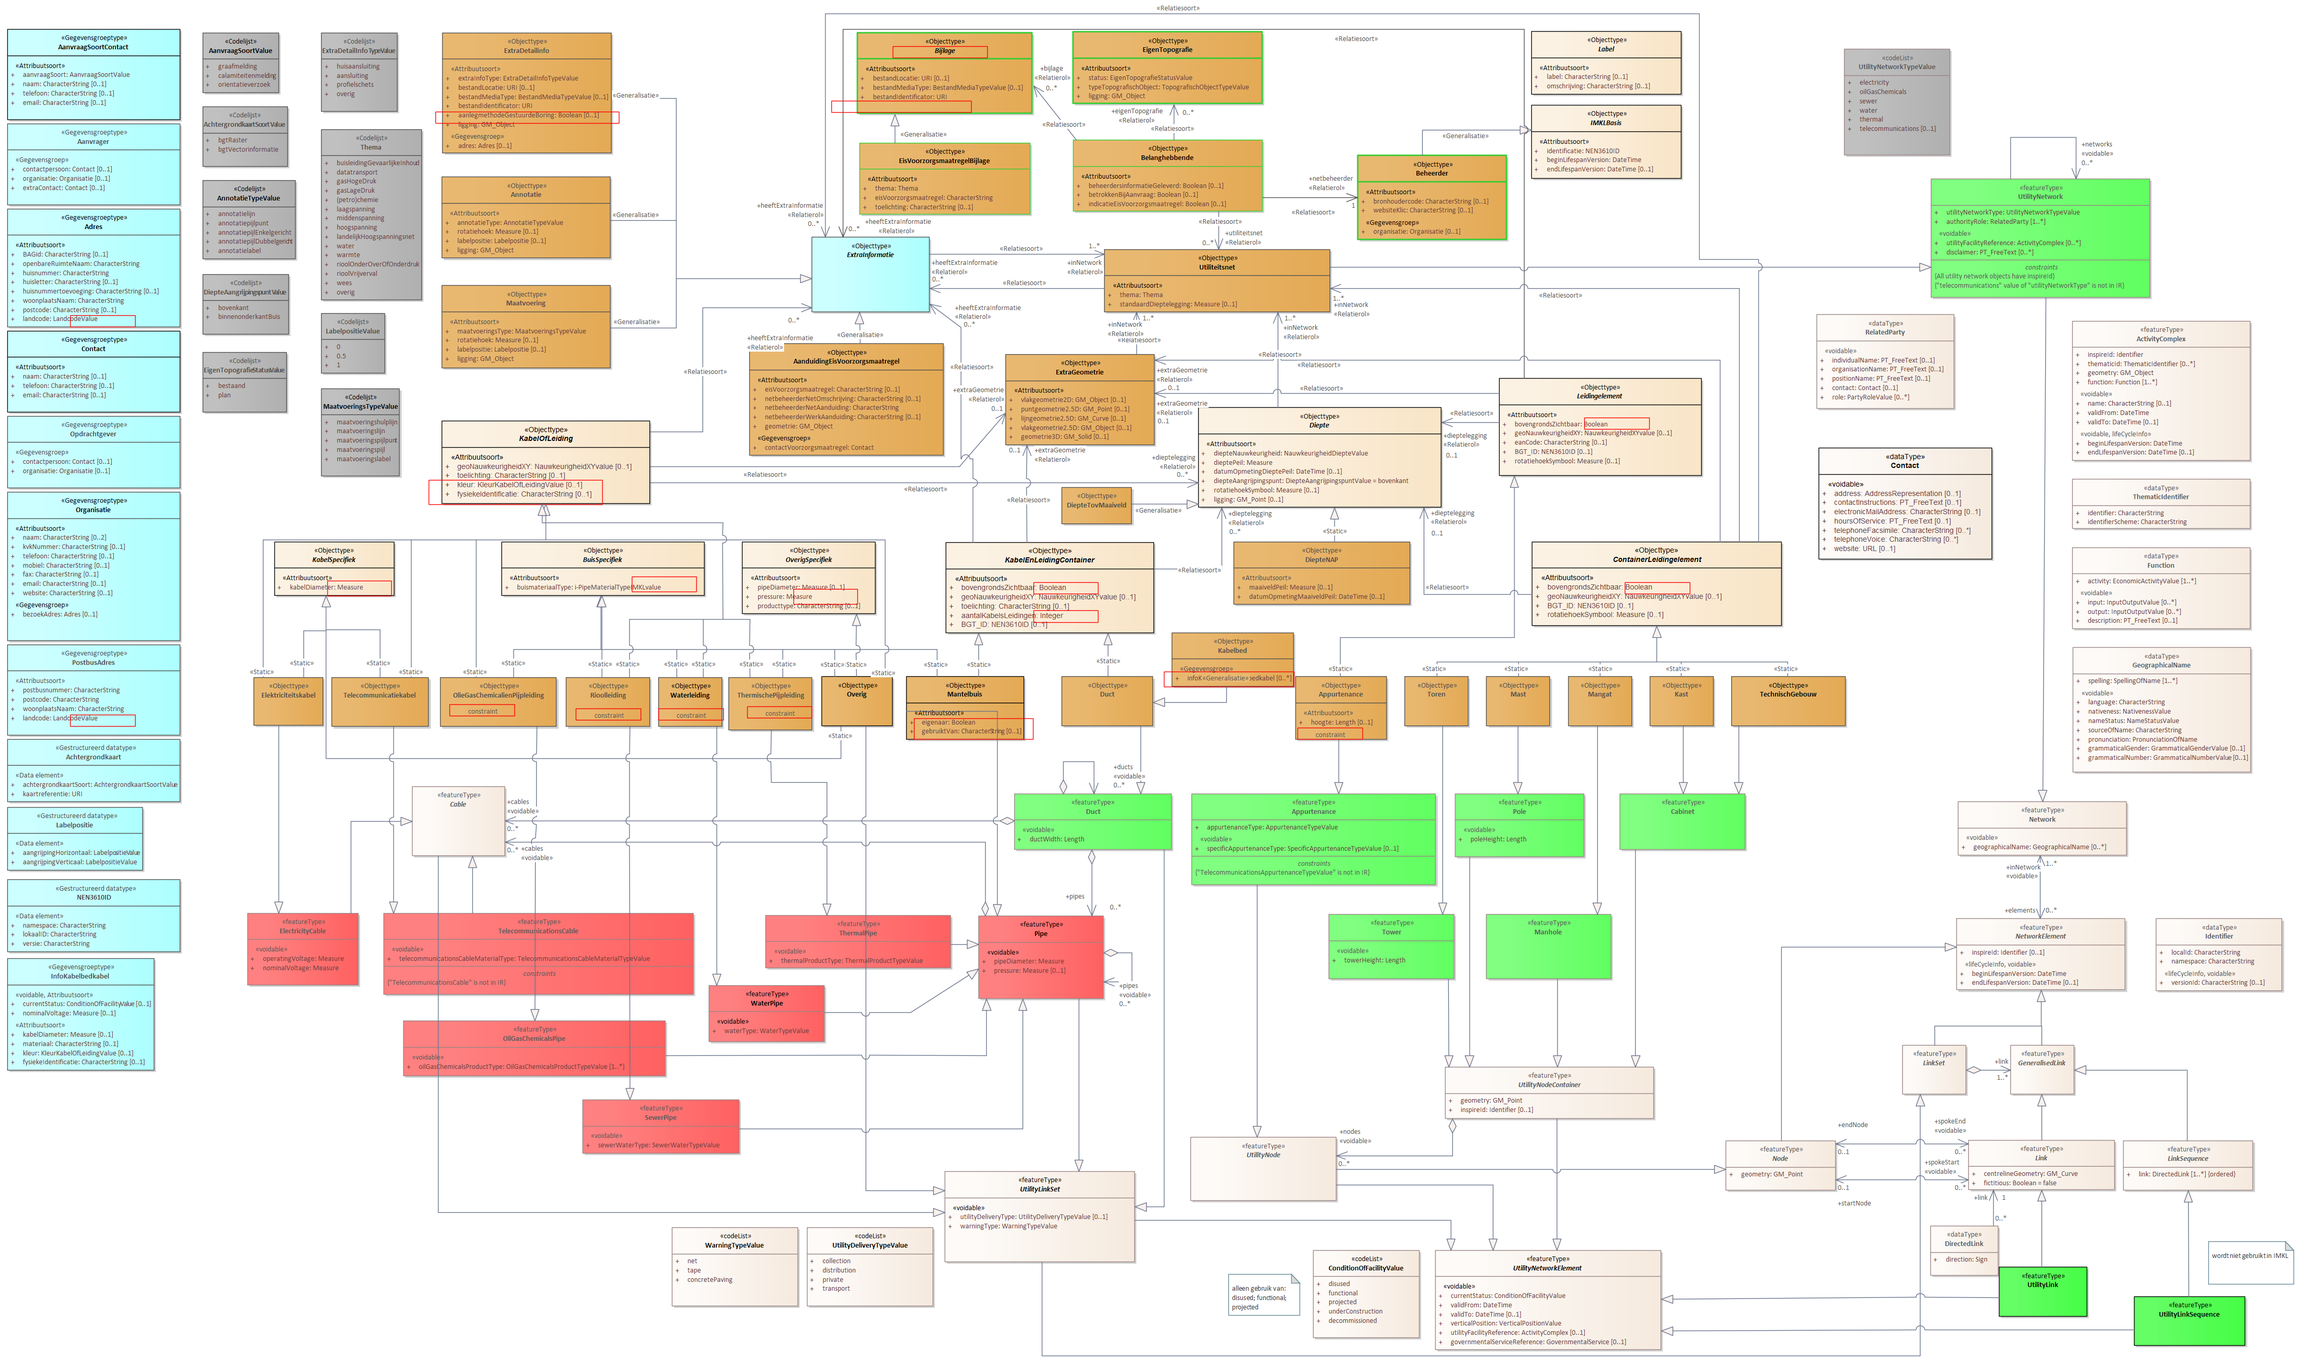
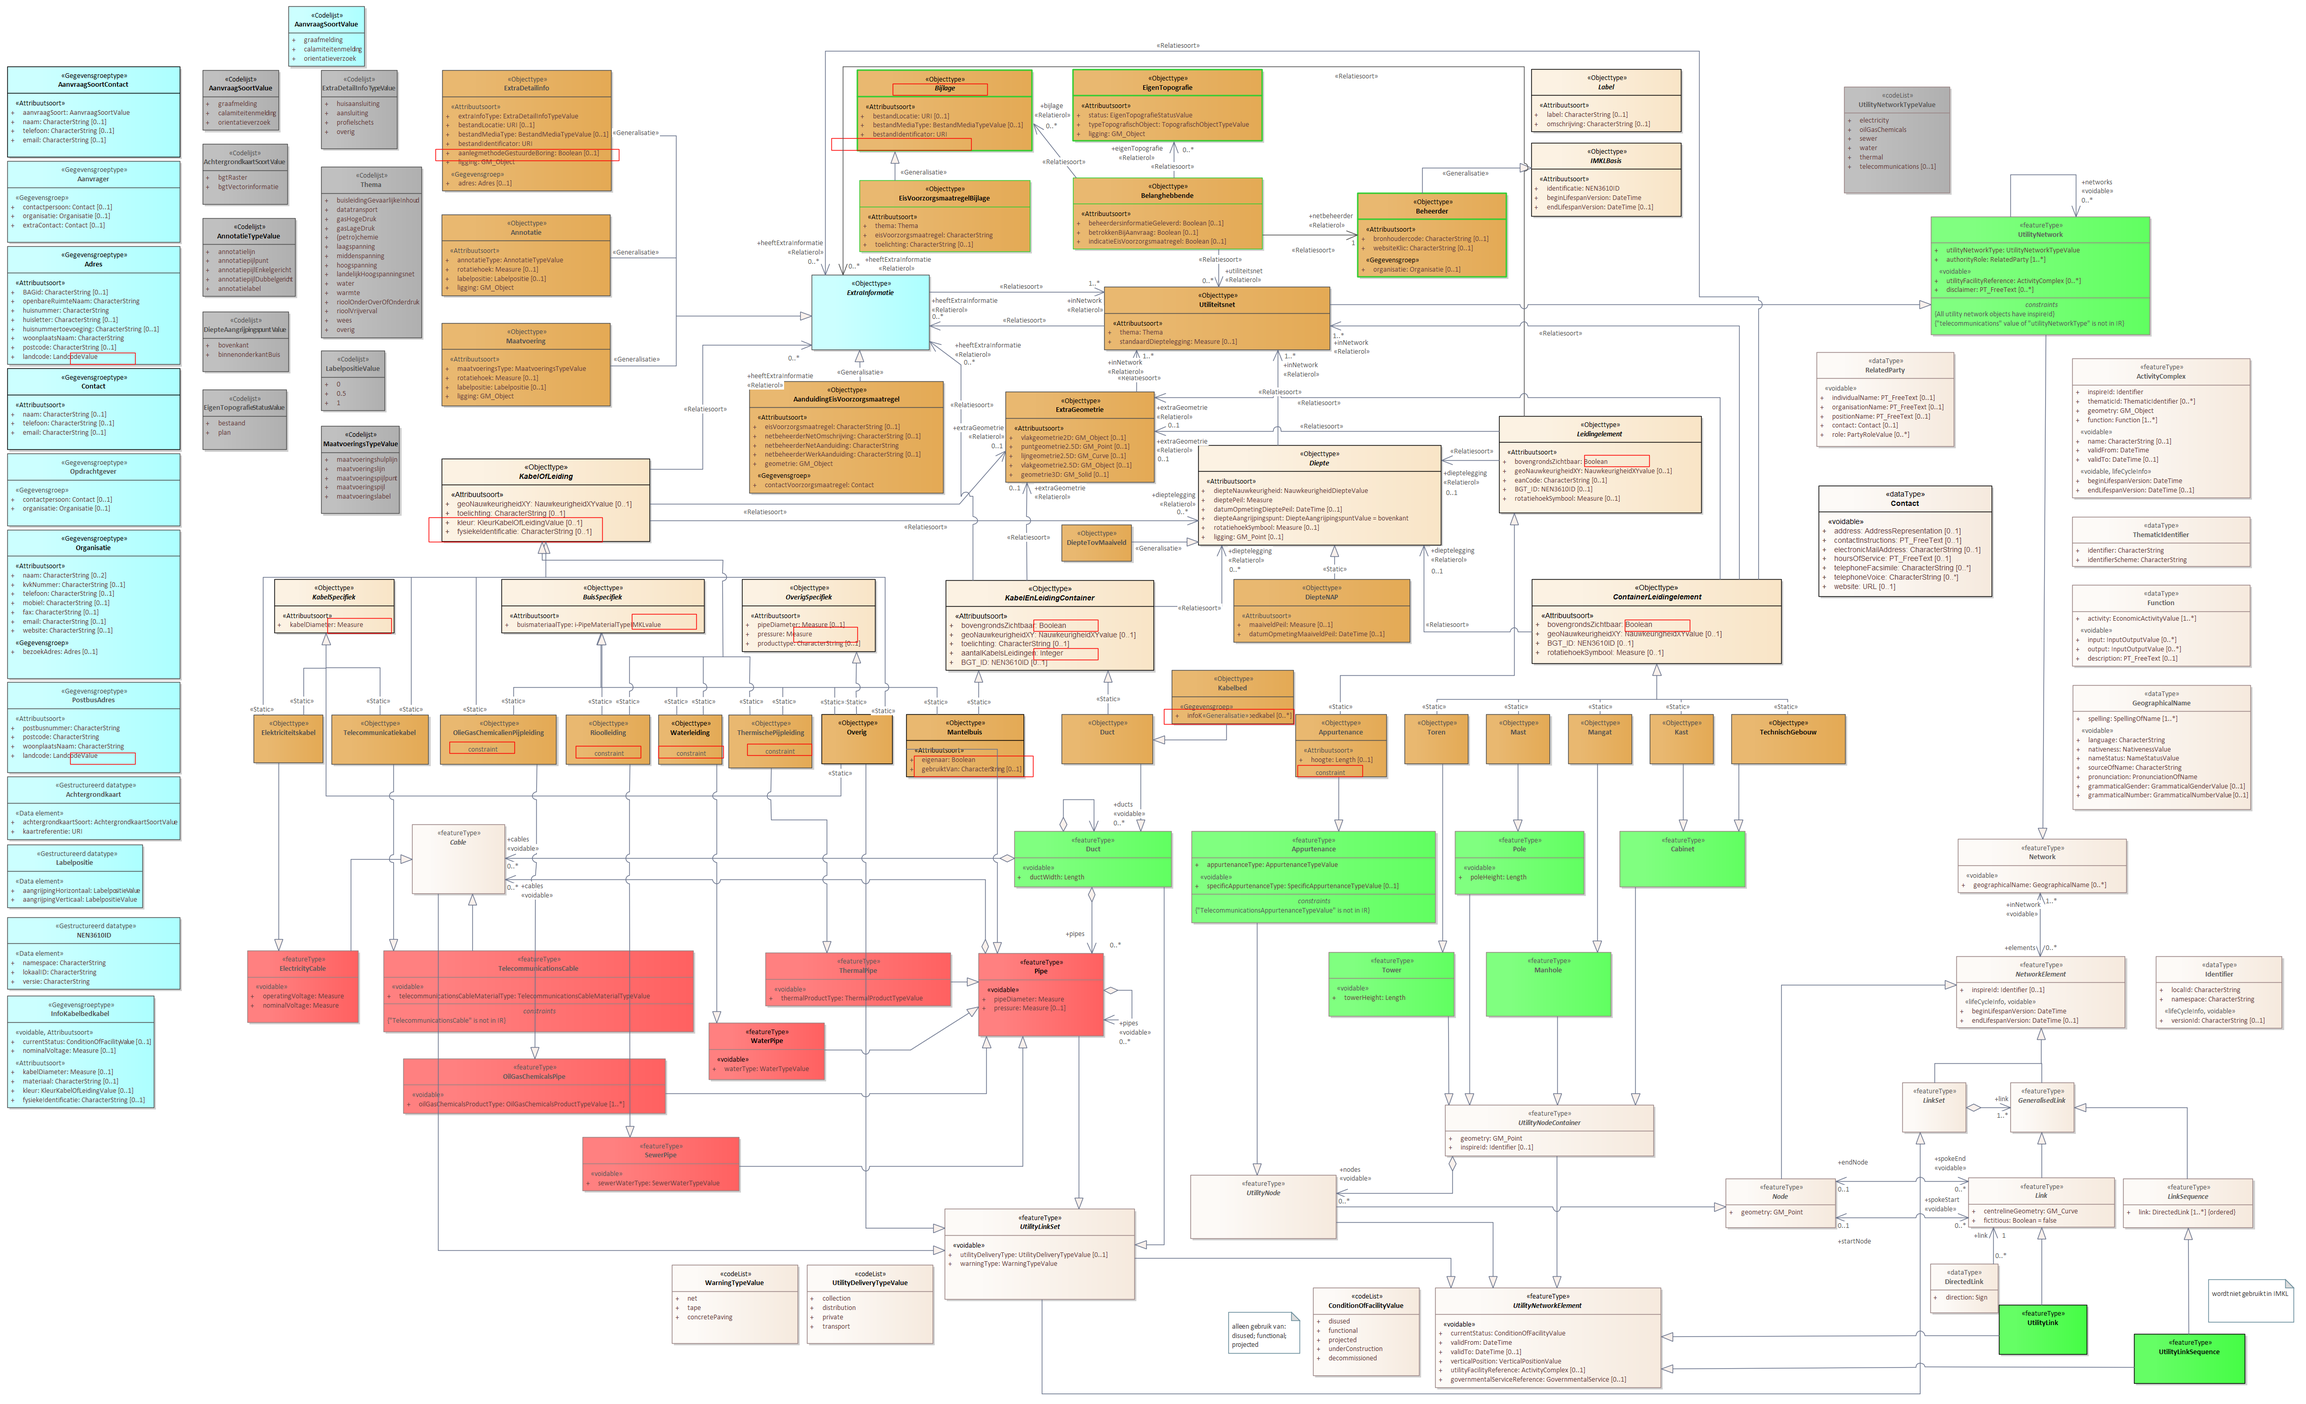
MIMLM-InformatiemodelKabelsenLeidingenMIM-conversie-1.2.x-0-20240531-20240909-113505

diff --git a/data/imkl-werkomgeving-cat.respec.html b/data/imkl-werkomgeving-cat.respec.html
@@ -1,14 +1,14 @@
 
 <!DOCTYPE HTML><section id="cat" class="normative">
    <h2>Gegevensdefinitie</h2>
-   <!--MIMLM-InformatiemodelKabelsenLeidingenMIM-conversie-1.2.x-0-20240531-20240906-155625 imvertor Nightly-build.18-->
+   <!--MIMLM-InformatiemodelKabelsenLeidingenMIM-conversie-1.2.x-0-20240531-20240909-113505 imvertor Nightly-build.18-->
    <section id="global_package_IMKLBasis">
       <h3>Domein   IMKL-Basis</h3>
       <section id="EAID_3216E3F5_51CD_42d4_BDBB_F113D31E31A7">
          <h4>   01 IMKL-MIM-compleet - overzicht</h4>
          <div class="imageinfo overview">
             <figure><img src="data/Images/EAID_3216E3F5_51CD_42d4_BDBB_F113D31E31A7.png" usemap="#imagemap-EAID_3216E3F5_51CD_42d4_BDBB_F113D31E31A7" alt="Diagram: 01 IMKL-MIM-compleet - overzicht"><figcaption>01 IMKL-MIM-compleet</figcaption>
-            </figure><map name="imagemap-EAID_3216E3F5_51CD_42d4_BDBB_F113D31E31A7"><area shape="rect" alt="InfoKabelbedkabel" coords="14,1845,297,2061" href="#global_class_IMKLBasis_InfoKabelbedkabel"><area shape="rect" alt="Labelpositie" coords="14,1554,275,1676" href="#global_class_IMKLBasis_Labelpositie"><area shape="rect" alt="" coords="618,748,769,917" href="#global_class_IMKLBasis_MaatvoeringsTypeValue"><area shape="rect" alt="" coords="618,63,765,215" href="#global_class_IMKLBasis_ExtraDetailInfoTypeValue"><area shape="rect" alt="" coords="390,678,552,794" href="#global_class_IMKLBasis_EigenTopografieStatusValue"><area shape="rect" alt="" coords="390,528,556,644" href="#global_class_IMKLBasis_DiepteAangrijpingspuntValue"><area shape="rect" alt="" coords="390,347,569,499" href="#global_class_IMKLBasis_AnnotatieTypeValue"><area shape="rect" alt="" coords="390,205,554,321" href="#global_class_IMKLBasis_AchtergrondkaartSoortValue"><area shape="rect" alt="" coords="618,249,812,578" href="#global_class_IMKLBasis_Thema"><area shape="rect" alt="" coords="618,603,741,719" href="#global_class_IMKLBasis_LabelpositieValue"><area shape="rect" alt="" coords="390,63,537,179" href="#global_class_IMKLBasis_AanvraagSoortValue"><area shape="rect" alt="Achtergrondkaart" coords="14,1423,347,1544" href="#global_class_IMKLBasis_Achtergrondkaart"><area shape="rect" alt="PostbusAdres" coords="14,1241,347,1416" href="#global_class_LeveringGebiedsinformatie_PostbusAdres"><area shape="rect" alt="Organisatie" coords="14,947,347,1234" href="#global_class_LeveringGebiedsinformatie_Organisatie"><area shape="rect" alt="Opdrachtgever" coords="14,801,347,940" href="#global_class_LeveringGebiedsinformatie_Opdrachtgever"><area shape="rect" alt="Contact" coords="14,637,347,794" href="#global_class_LeveringGebiedsinformatie_Contact"><area shape="rect" alt="Aanvrager" coords="14,238,347,395" href="#global_class_LeveringGebiedsinformatie_Aanvrager"><area shape="rect" alt="AanvraagSoortContact" coords="14,56,347,231" href="#global_class_LeveringGebiedsinformatie_AanvraagSoortContact"><area shape="rect" alt="Adres" coords="14,402,347,630" href="#global_class_IMKLBasis_Adres"><area shape="rect" alt="NEN3610ID" coords="14,1693,347,1833" href="#global_class_IMKLBasis_NEN3610ID"><area shape="rect" alt="Beheerder" coords="2613,299,2900,462" href="#global_class_LeveringGebiedsinformatie_Beheerder"><area shape="rect" alt="Overig" coords="1581,1302,1718,1398" href="#global_class_IMKLBasis_Overig"><area shape="rect" alt="Belanghebbende" coords="2065,269,2430,407" href="#global_class_LeveringGebiedsinformatie_Belanghebbende"><area shape="rect" alt="TechnischGebouw" coords="3332,1302,3552,1398" href="#global_class_IMKLBasis_TechnischGebouw"><area shape="rect" alt="BuisSpecifiek" coords="965,1043,1356,1147" href="#global_class_IMKLBasis_BuisSpecifiek"><area shape="rect" alt="EisVoorzorgsmaatregelBijlage" coords="1654,275,1983,413" href="#global_class_IMKLBasis_EisVoorzorgsmaatregelBijlage"><area shape="rect" alt="Bijlage" coords="1650,63,1987,219" href="#global_class_LeveringGebiedsinformatie_Bijlage"><area shape="rect" alt="ExtraInformatie" coords="1562,456,1789,601" href="#global_class_IMKLBasis_ExtraInformatie"><area shape="rect" alt="Leidingelement" coords="2885,728,3275,916" href="#global_class_IMKLBasis_Leidingelement"><area shape="rect" alt="KabelEnLeidingContainer" coords="1820,1044,2221,1219" href="#global_class_IMKLBasis_KabelEnLeidingContainer"><area shape="rect" alt="ExtraGeometrie" coords="1935,682,2222,857" href="#global_class_IMKLBasis_ExtraGeometrie"><area shape="rect" alt="Maatvoering" coords="850,549,1175,709" href="#global_class_IMKLBasis_Maatvoering"><area shape="rect" alt="AanduidingEisVoorzorgsmaatregel" coords="1442,661,1816,877" href="#global_class_IMKLBasis_AanduidingEisVoorzorgsmaatregel"><area shape="rect" alt="Mantelbuis" coords="1744,1302,1971,1424" href="#global_class_IMKLBasis_Mantelbuis"><area shape="rect" alt="Kabelbed" coords="2255,1218,2490,1322" href="#global_class_IMKLBasis_Kabelbed"><area shape="rect" alt="KabelOfLeiding" coords="850,810,1251,970" href="#global_class_IMKLBasis_KabelOfLeiding"><area shape="rect" alt="Diepte" coords="2306,784,2774,977" href="#global_class_IMKLBasis_Diepte"><area shape="rect" alt="Telecommunicatiekabel" coords="638,1304,825,1399" href="#global_class_IMKLBasis_Telecommunicatiekabel"><area shape="rect" alt="Elektriciteitskabel" coords="488,1304,622,1397" href="#global_class_IMKLBasis_Elektriciteitskabel"><area shape="rect" alt="KabelSpecifiek" coords="528,1043,759,1147" href="#global_class_IMKLBasis_KabelSpecifiek"><area shape="rect" alt="Label" coords="2947,60,3236,182" href="#global_class_IMKLBasis_Label"><area shape="rect" alt="IMKLBasis" coords="2947,202,3236,344" href="#global_class_IMKLBasis_IMKLBasis"><area shape="rect" alt="DiepteNAP" coords="2374,1043,2714,1164" href="#global_class_IMKLBasis_DiepteNAP"><area shape="rect" alt="DiepteTovMaaiveld" coords="2043,938,2178,1009" href="#global_class_IMKLBasis_DiepteTovMaaiveld"><area shape="rect" alt="ContainerLeidingelement" coords="2948,1043,3429,1205" href="#global_class_IMKLBasis_ContainerLeidingelement"><area shape="rect" alt="Kast" coords="3175,1302,3298,1398" href="#global_class_IMKLBasis_Kast"><area shape="rect" alt="Mangat" coords="3018,1302,3141,1398" href="#global_class_IMKLBasis_Mangat"><area shape="rect" alt="Mast" coords="2860,1302,2983,1398" href="#global_class_IMKLBasis_Mast"><area shape="rect" alt="Toren" coords="2703,1302,2826,1398" href="#global_class_IMKLBasis_Toren"><area shape="rect" alt="Appurtenance" coords="2493,1302,2669,1424" href="#global_class_IMKLBasis_Appurtenance"><area shape="rect" alt="Duct" coords="2043,1302,2219,1398" href="#global_class_IMKLBasis_Duct"><area shape="rect" alt="ThermischePijpleiding" coords="1402,1304,1563,1406" href="#global_class_IMKLBasis_ThermischePijpleiding"><area shape="rect" alt="Waterleiding" coords="1267,1304,1390,1399" href="#global_class_IMKLBasis_Waterleiding"><area shape="rect" alt="Rioolleiding" coords="1089,1304,1251,1399" href="#global_class_IMKLBasis_Rioolleiding"><area shape="rect" alt="OlieGasChemicalienPijpleiding" coords="847,1304,1071,1399" href="#global_class_IMKLBasis_OlieGasChemicalienPijpleiding"><area shape="rect" alt="Utiliteitsnet" coords="2125,480,2560,601" href="#global_class_IMKLBasis_Utiliteitsnet"><area shape="rect" alt="Annotatie" coords="850,340,1175,497" href="#global_class_IMKLBasis_Annotatie"><area shape="rect" alt="ExtraDetailinfo" coords="851,63,1177,295" href="#global_class_IMKLBasis_ExtraDetailinfo"><area shape="rect" alt="EigenTopografie" coords="2065,61,2430,200" href="#global_class_IMKLBasis_EigenTopografie"><area shape="rect" alt="OverigSpecifiek" coords="1428,1043,1685,1182" href="#global_class_IMKLBasis_OverigSpecifiek"></map><p>
+            </figure><map name="imagemap-EAID_3216E3F5_51CD_42d4_BDBB_F113D31E31A7"><area shape="rect" alt="InfoKabelbedkabel" coords="14,1917,297,2133" href="#global_class_IMKLBasis_InfoKabelbedkabel"><area shape="rect" alt="Labelpositie" coords="14,1626,275,1748" href="#global_class_IMKLBasis_Labelpositie"><area shape="rect" alt="" coords="618,820,769,989" href="#global_class_IMKLBasis_MaatvoeringsTypeValue"><area shape="rect" alt="" coords="618,135,765,287" href="#global_class_IMKLBasis_ExtraDetailInfoTypeValue"><area shape="rect" alt="" coords="390,750,552,866" href="#global_class_IMKLBasis_EigenTopografieStatusValue"><area shape="rect" alt="" coords="390,600,556,716" href="#global_class_IMKLBasis_DiepteAangrijpingspuntValue"><area shape="rect" alt="" coords="390,420,569,571" href="#global_class_IMKLBasis_AnnotatieTypeValue"><area shape="rect" alt="" coords="390,277,554,394" href="#global_class_IMKLBasis_AchtergrondkaartSoortValue"><area shape="rect" alt="" coords="618,321,812,651" href="#global_class_IMKLBasis_Thema"><area shape="rect" alt="" coords="618,675,741,791" href="#global_class_IMKLBasis_LabelpositieValue"><area shape="rect" alt="" coords="390,135,537,251" href="#global_class_IMKLBasis_AanvraagSoortValue"><area shape="rect" alt="Achtergrondkaart" coords="14,1495,347,1617" href="#global_class_IMKLBasis_Achtergrondkaart"><area shape="rect" alt="PostbusAdres" coords="14,1313,347,1488" href="#global_class_LeveringGebiedsinformatie_PostbusAdres"><area shape="rect" alt="Organisatie" coords="14,1020,347,1307" href="#global_class_LeveringGebiedsinformatie_Organisatie"><area shape="rect" alt="Opdrachtgever" coords="14,873,347,1013" href="#global_class_LeveringGebiedsinformatie_Opdrachtgever"><area shape="rect" alt="Contact" coords="14,709,347,866" href="#global_class_LeveringGebiedsinformatie_Contact"><area shape="rect" alt="Aanvrager" coords="14,310,347,467" href="#global_class_LeveringGebiedsinformatie_Aanvrager"><area shape="rect" alt="AanvraagSoortContact" coords="14,128,347,303" href="#global_class_LeveringGebiedsinformatie_AanvraagSoortContact"><area shape="rect" alt="Adres" coords="14,474,347,702" href="#global_class_IMKLBasis_Adres"><area shape="rect" alt="NEN3610ID" coords="14,1766,347,1905" href="#global_class_IMKLBasis_NEN3610ID"><area shape="rect" alt="Beheerder" coords="2613,372,2900,534" href="#global_class_LeveringGebiedsinformatie_Beheerder"><area shape="rect" alt="Overig" coords="1581,1375,1718,1471" href="#global_class_IMKLBasis_Overig"><area shape="rect" alt="Belanghebbende" coords="2065,342,2430,480" href="#global_class_LeveringGebiedsinformatie_Belanghebbende"><area shape="rect" alt="TechnischGebouw" coords="3332,1375,3552,1471" href="#global_class_IMKLBasis_TechnischGebouw"><area shape="rect" alt="BuisSpecifiek" coords="965,1115,1356,1219" href="#global_class_IMKLBasis_BuisSpecifiek"><area shape="rect" alt="EisVoorzorgsmaatregelBijlage" coords="1654,347,1983,485" href="#global_class_IMKLBasis_EisVoorzorgsmaatregelBijlage"><area shape="rect" alt="Bijlage" coords="1650,135,1987,291" href="#global_class_LeveringGebiedsinformatie_Bijlage"><area shape="rect" alt="ExtraInformatie" coords="1562,529,1789,674" href="#global_class_IMKLBasis_ExtraInformatie"><area shape="rect" alt="Leidingelement" coords="2885,801,3275,988" href="#global_class_IMKLBasis_Leidingelement"><area shape="rect" alt="KabelEnLeidingContainer" coords="1820,1117,2221,1291" href="#global_class_IMKLBasis_KabelEnLeidingContainer"><area shape="rect" alt="ExtraGeometrie" coords="1935,754,2222,929" href="#global_class_IMKLBasis_ExtraGeometrie"><area shape="rect" alt="Maatvoering" coords="850,622,1175,782" href="#global_class_IMKLBasis_Maatvoering"><area shape="rect" alt="AanduidingEisVoorzorgsmaatregel" coords="1442,734,1816,950" href="#global_class_IMKLBasis_AanduidingEisVoorzorgsmaatregel"><area shape="rect" alt="Mantelbuis" coords="1744,1375,1971,1496" href="#global_class_IMKLBasis_Mantelbuis"><area shape="rect" alt="Kabelbed" coords="2255,1290,2490,1394" href="#global_class_IMKLBasis_Kabelbed"><area shape="rect" alt="KabelOfLeiding" coords="850,883,1251,1043" href="#global_class_IMKLBasis_KabelOfLeiding"><area shape="rect" alt="Diepte" coords="2306,857,2774,1050" href="#global_class_IMKLBasis_Diepte"><area shape="rect" alt="Telecommunicatiekabel" coords="638,1376,825,1472" href="#global_class_IMKLBasis_Telecommunicatiekabel"><area shape="rect" alt="Elektriciteitskabel" coords="488,1376,622,1469" href="#global_class_IMKLBasis_Elektriciteitskabel"><area shape="rect" alt="KabelSpecifiek" coords="528,1115,759,1219" href="#global_class_IMKLBasis_KabelSpecifiek"><area shape="rect" alt="Label" coords="2947,133,3236,254" href="#global_class_IMKLBasis_Label"><area shape="rect" alt="IMKLBasis" coords="2947,275,3236,417" href="#global_class_IMKLBasis_IMKLBasis"><area shape="rect" alt="DiepteNAP" coords="2374,1115,2714,1237" href="#global_class_IMKLBasis_DiepteNAP"><area shape="rect" alt="DiepteTovMaaiveld" coords="2043,1010,2178,1081" href="#global_class_IMKLBasis_DiepteTovMaaiveld"><area shape="rect" alt="ContainerLeidingelement" coords="2948,1115,3429,1278" href="#global_class_IMKLBasis_ContainerLeidingelement"><area shape="rect" alt="Kast" coords="3175,1375,3298,1471" href="#global_class_IMKLBasis_Kast"><area shape="rect" alt="Mangat" coords="3018,1375,3141,1471" href="#global_class_IMKLBasis_Mangat"><area shape="rect" alt="Mast" coords="2860,1375,2983,1471" href="#global_class_IMKLBasis_Mast"><area shape="rect" alt="Toren" coords="2703,1375,2826,1471" href="#global_class_IMKLBasis_Toren"><area shape="rect" alt="Appurtenance" coords="2493,1375,2669,1496" href="#global_class_IMKLBasis_Appurtenance"><area shape="rect" alt="Duct" coords="2043,1375,2219,1471" href="#global_class_IMKLBasis_Duct"><area shape="rect" alt="ThermischePijpleiding" coords="1402,1376,1563,1479" href="#global_class_IMKLBasis_ThermischePijpleiding"><area shape="rect" alt="Waterleiding" coords="1267,1376,1390,1472" href="#global_class_IMKLBasis_Waterleiding"><area shape="rect" alt="Rioolleiding" coords="1089,1376,1251,1472" href="#global_class_IMKLBasis_Rioolleiding"><area shape="rect" alt="OlieGasChemicalienPijpleiding" coords="847,1376,1071,1472" href="#global_class_IMKLBasis_OlieGasChemicalienPijpleiding"><area shape="rect" alt="Utiliteitsnet" coords="2125,552,2560,674" href="#global_class_IMKLBasis_Utiliteitsnet"><area shape="rect" alt="Annotatie" coords="850,413,1175,570" href="#global_class_IMKLBasis_Annotatie"><area shape="rect" alt="ExtraDetailinfo" coords="851,135,1177,368" href="#global_class_IMKLBasis_ExtraDetailinfo"><area shape="rect" alt="EigenTopografie" coords="2065,134,2430,272" href="#global_class_IMKLBasis_EigenTopografie"><area shape="rect" alt="OverigSpecifiek" coords="1428,1115,1685,1255" href="#global_class_IMKLBasis_OverigSpecifiek"></map><p>
                
                <p></p>
                </p>
@@ -39722,7 +39722,7 @@
 </section>
 <section id="lis" class="normative">
    <h2>Inhoud van waardelijsten</h2>
-   <!--MIMLM-InformatiemodelKabelsenLeidingenMIM-conversie-1.2.x-0-20240531-20240906-155625 imvertor Nightly-build.18-->
+   <!--MIMLM-InformatiemodelKabelsenLeidingenMIM-conversie-1.2.x-0-20240531-20240909-113505 imvertor Nightly-build.18-->
    <section>
       <h3>Codelijst inhoud   </h3>
       <section id="detail_class_IMKLBasis_ExtraDetailInfoTypeValue">
